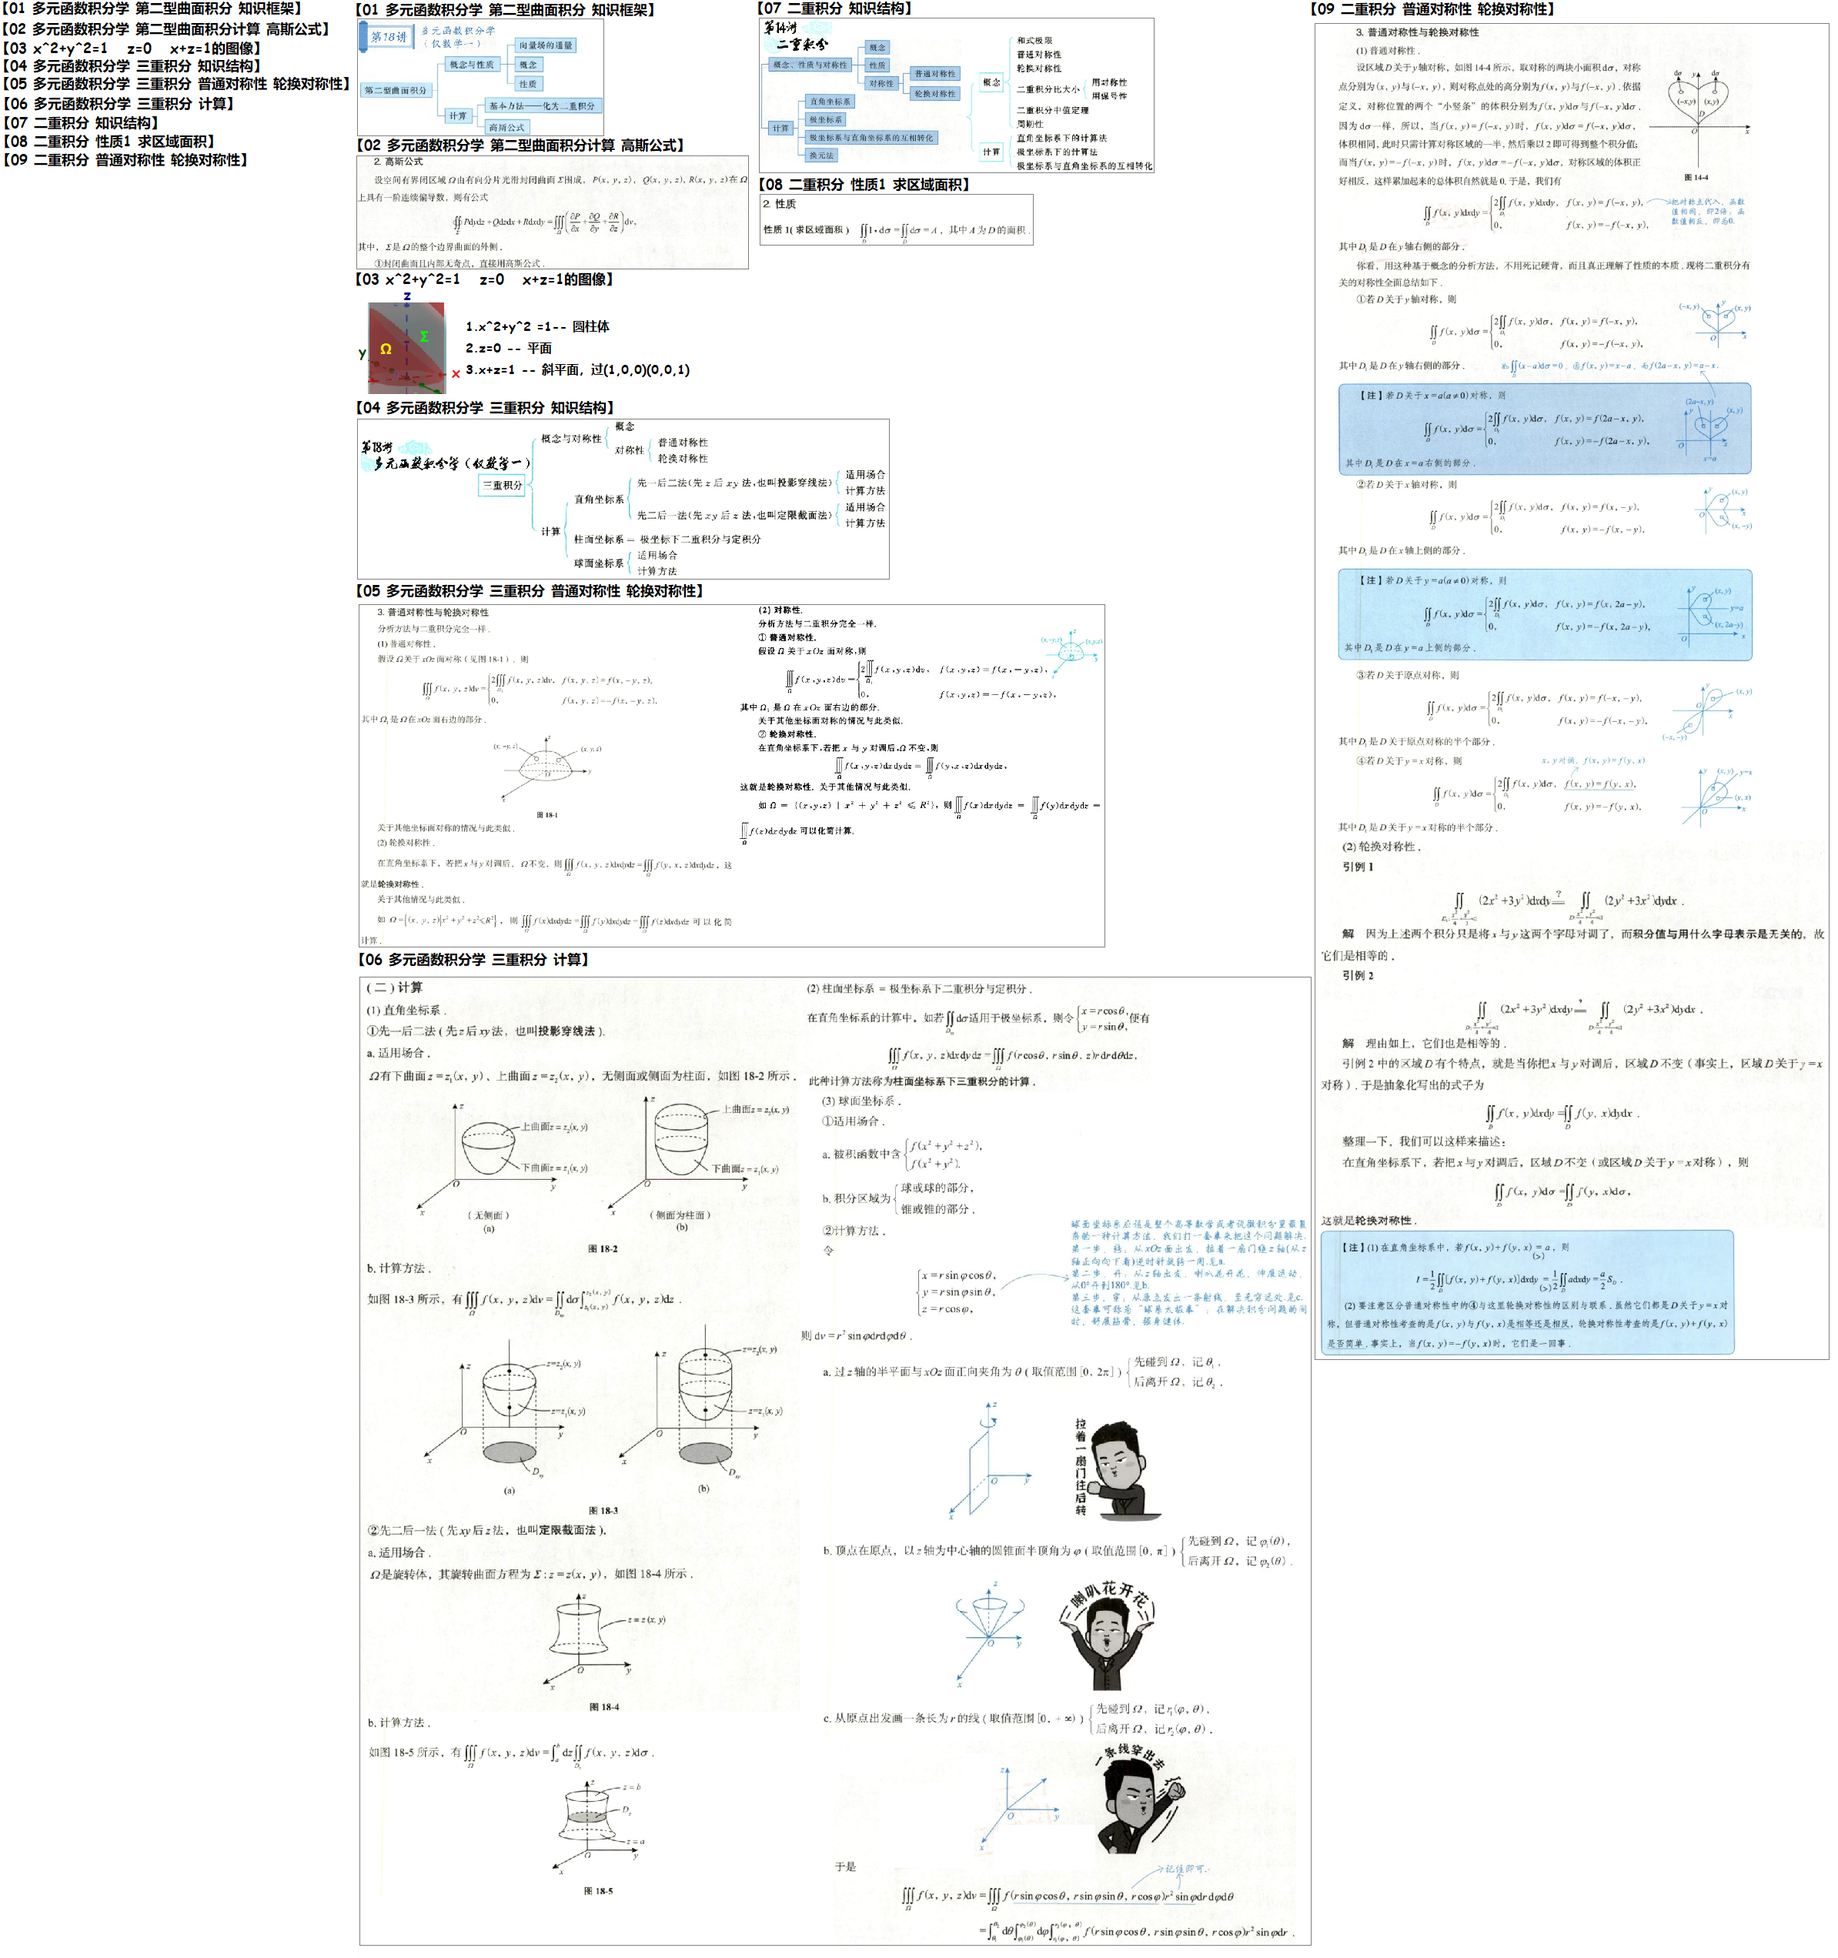
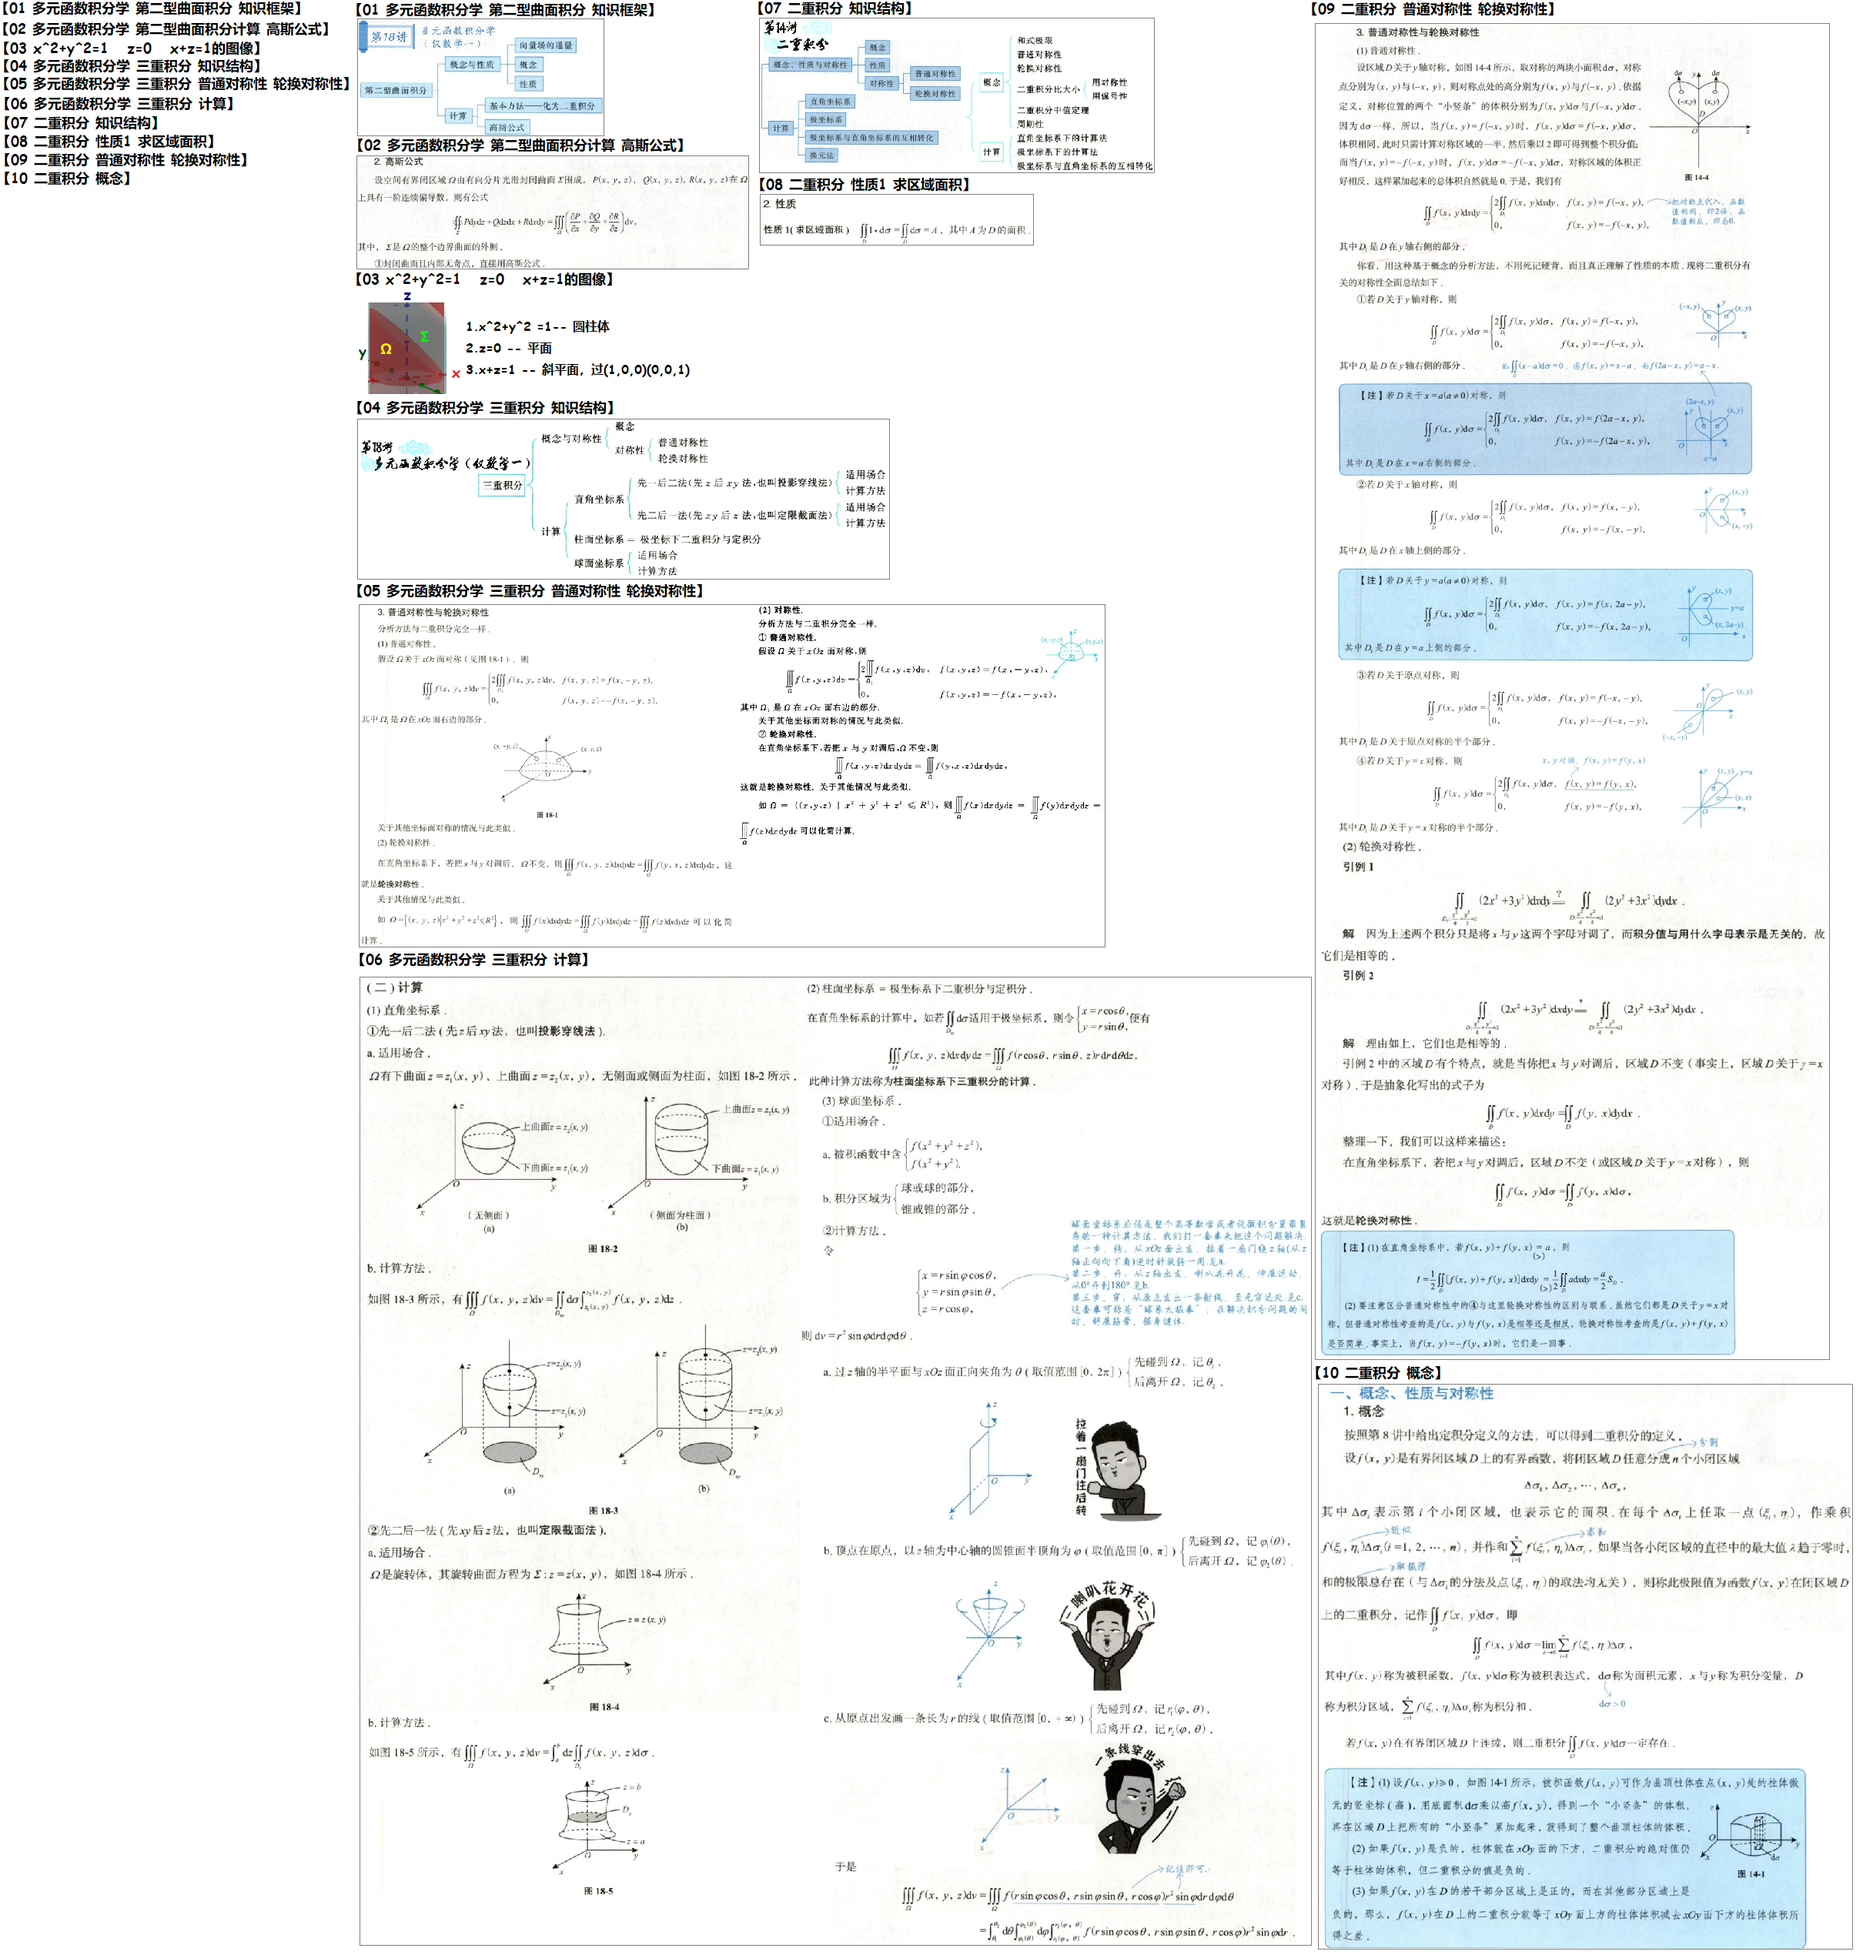
240915

diff --git a/01 题集 13/01 高数 13/01 23 13 = 9 + 4/02 大题 4/03 解答题19 曲面积分 高斯公式 240912/02 Doc.md b/01 题集 13/01 高数 13/01 23 13 = 9 + 4/02 大题 4/03 解答题19 曲面积分 高斯公式 240912/02 Doc.md
@@ -1,6 +1,6 @@
 # 00 背诵
 
-<img src="https://cvp.oss-cn-shanghai.aliyuncs.com/202409150758497.png" alt="image-20240915075858707" style="zoom:50%;" />
+<img src="https://cvp.oss-cn-shanghai.aliyuncs.com/202409150822287.png" alt="image-20240915082221367" style="zoom:50%;" />
 
 
 
